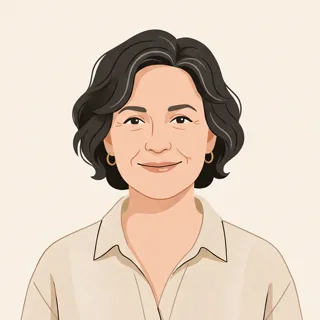
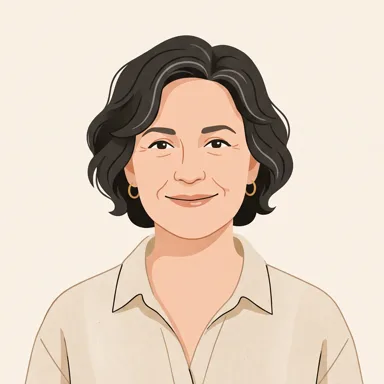
fix: o cartão da Helena só promete o que o site cumpre
Por quê: a revisão do PR #6 viu que "eu leio para você" nem sempre é
verdade (texto sem gravação é lido pela voz do aparelho) e que
"qualquer passo ou produto" promete demais quando falta voz em
português no aparelho.

O que mudou:
- texto: "Toque em Ouvir nos passos e nos produtos para ouvir o texto
  em voz alta." e o aviso diz quando quem lê é a voz do aparelho;
- retrato em 384 px (nítido a 120 px em telas 3x), 9,6 KB;
- comentário do CSS corrigido; o teste confere que há Ouvir na tela,
  o aviso novo, o alt vazio e o retrato de 384 px.

Como verifiquei: npm test, 40 de 40.

diff --git a/index.html b/index.html
@@ -141,12 +141,12 @@
              (Higgsfield, docs/ativos.md), decorativo: o texto ao lado já diz quem ela é.
              Só aparece quando há voz para os botões "Ouvir" (src/lib/ouvir.js). -->
         <div class="helena" data-helena hidden>
-          <img class="helena__retrato" src="/img/helena.webp" width="320" height="320"
+          <img class="helena__retrato" src="/img/helena.webp" width="384" height="384"
                loading="lazy" decoding="async" alt="" />
           <div>
             <p class="helena__oi">Oi, eu sou a Helena.</p>
-            <p>Toque em <strong>Ouvir</strong> em qualquer passo ou produto, e eu leio para você.</p>
-            <p class="helena__nota">A Helena é uma voz feita por computador.</p>
+            <p>Toque em <strong>Ouvir</strong> nos passos e nos produtos para ouvir o texto em voz alta.</p>
+            <p class="helena__nota">A Helena é uma voz feita por computador. Se um texto ainda não foi gravado com ela, quem lê é a voz do seu aparelho.</p>
           </div>
         </div>
         <!-- A foto de cada passo é decorativa (alt vazio): o número, o título e a frase já dizem tudo.

diff --git a/tests/site.spec.js b/tests/site.spec.js
@@ -240,12 +240,15 @@ test.describe('A Helena', () => {
   test('o retrato da Helena aparece junto dos botões Ouvir e diz que a voz é de computador', async ({ page }) => {
     await page.goto('./')
     const helena = page.locator('[data-helena]')
+    await expect(page.locator('[data-ouvir]:visible').first()).toBeVisible() // há Ouvir na tela
     await expect(helena).toBeVisible()
     await expect(helena).toContainText('Oi, eu sou a Helena.')
     await expect(helena).toContainText('A Helena é uma voz feita por computador.')
+    await expect(helena).toContainText('quem lê é a voz do seu aparelho')
     const retrato = helena.locator('img')
+    await expect(retrato).toHaveAttribute('alt', '') // decorativo: o texto ao lado diz quem ela é
     await retrato.scrollIntoViewIfNeeded()
-    await expect.poll(() => retrato.evaluate((i) => i.complete && i.naturalWidth)).toBe(320)
+    await expect.poll(() => retrato.evaluate((i) => i.complete && i.naturalWidth)).toBe(384)
   })
 })
 

diff --git a/src/styles/marca.css b/src/styles/marca.css
@@ -135,7 +135,7 @@ main > section:not(.capa) > h2::before,
   width: 96px;
   height: 96px;
   border: 3px solid var(--cor-kraft);
-  border-radius: 50%; /* o único círculo do site: é um rosto, não um cartão */
+  border-radius: 50%; /* retrato redondo: é um rosto, não um cartão de canto reto */
   background: var(--cor-superficie);
 }
 

diff --git a/docs/ativos.md b/docs/ativos.md
@@ -13,7 +13,7 @@ Os originais pesados ficam em `_originais/`, fora do git (`.gitignore`). Nada ve
 | `passo-1.webp` … `passo-4.webp` | 800×600 | 27 a 31 KB | Higgsfield, Nano Banana Pro, imagem → imagem com a capa. Originais: `_originais/img/passo-N.png` | idem | 23/10/2026 | `docs/imagens.md`, seção 4 |
 | `compartilhar.jpg` | 1200×630 | 104 KB | Recorte da capa, sem IA | idem (vem da capa) | 23/10/2026 | — |
 | `produtos/<id>.webp` (8) | 600×600 | 5 a 15 KB | Higgsfield, embalagens sem marca. Originais: `_originais/produtos/` | idem. **Aviso:** produto gerado por IA pode enganar quem compra (`docs/imagens.md`, seção 7) | 23/10/2026 | não registrado [idem] |
-| `helena.webp` | 320×320 | 7,5 KB | Higgsfield, Nano Banana Pro, 1:1, 2K (texto → imagem, sem referência). Original: `_originais/img/helena.png` (2048×2048). Recorte central com ffmpeg | idem | 24/10/2026 | "Friendly flat editorial illustration, a warm shoulders-up portrait of a fictional Brazilian woman in her fifties named Helena…" (texto completo no histórico do Higgsfield; ilustração de pessoa fictícia, não é foto) |
+| `helena.webp` | 384×384 | 10 KB | Higgsfield, Nano Banana Pro, 1:1, 2K (texto → imagem, sem referência). Original: `_originais/img/helena.png` (2048×2048). Recorte central com ffmpeg | idem | 24/10/2026 | "Friendly flat editorial illustration, a warm shoulders-up portrait of a fictional Brazilian woman in her fifties named Helena…" (texto completo no histórico do Higgsfield; ilustração de pessoa fictícia, não é foto) |
 | `placeholder.svg` | vetor | — | Desenhado no projeto | do projeto | 22/10/2026 | — |
 
 ## 2. Sequência de quadros (`public/frames/`)
